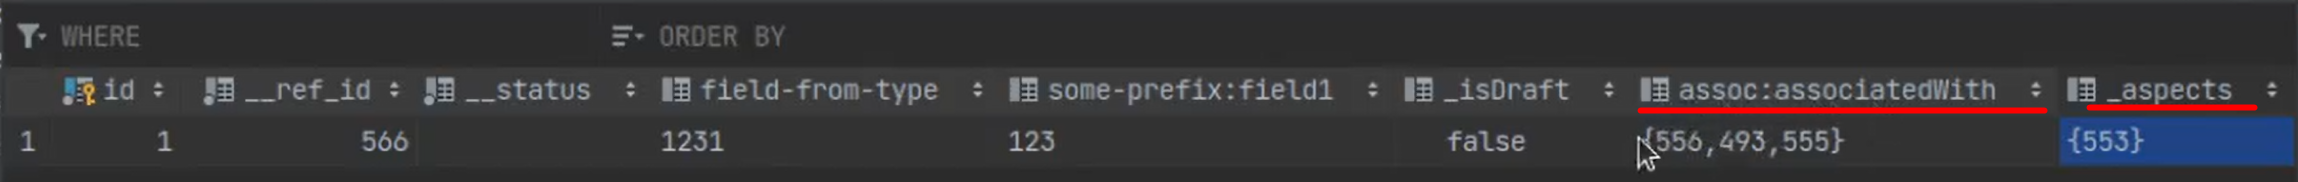
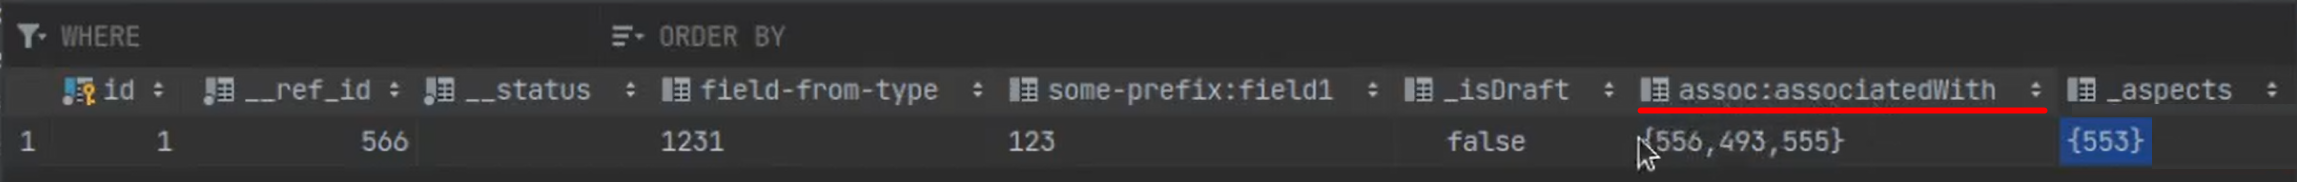
DMN_role_ECOSCOM-5137, aspects

diff --git a/docs/case_sample/equipment_request.rst b/docs/case_sample/equipment_request.rst
@@ -31,6 +31,8 @@
 Тип данных
 ----------
 
+.. _data_type_sample:
+
 **Тип данных** - основной источник метаданных работы с объектом.
 
 Для создания типа данных перейдите в журнал **«Типы данных» (Раздел администратора - Модель - Типы данных)**:
@@ -244,6 +246,8 @@
 Журнал
 -------
 
+.. _journal_to_menu:
+
 Для просмотра журнала необходимо его добавить в левое меню:
 
 1.	Перейдите в настройку меню, нажав на шестеренку справа сверху, далее выберите **«Настроить меню»**:
@@ -299,6 +303,8 @@
 
 Бизнес-процесс
 ----------------
+
+.. _bp_sample:
 
 Перейдите в левом меню в пункт **«Редактор бизнес-процессов»**:
 
@@ -529,6 +535,8 @@
        :width: 300
        :align: center
 
+.. _approve_form_bpmn:
+
 К задаче необходимо создать форму. Формы для задач обычно состоят из комментариев и кнопок, которые обозначают результат выполнения задачи.
 
 В данном случае не нужен комментарий, на текущем этапе достаточно одной кнопки, которая будет отвечать за исход задачи «На согласование». 
@@ -634,7 +642,7 @@
        :width: 500
        :align: center
 
-7. После Gateway необходимо поставить 2 компонента смены статуса на «Согласовано»/ «Отказано». Для этого повторяем действия первой смены статуса (пункт 2):
+7. После **Gateway** необходимо поставить 2 компонента смены статуса на **«Согласовано»/ «Отказано»**. Для этого повторяем действия первой смены статуса (пункт 2):
 
   -	У компонента **Gateway** нажмите в контекстном меню на иконку **Set Status**
 

diff --git a/docs/settings_kb/processes/ecos_dmn/editor/components/ecos_dmn_components_decision.rst b/docs/settings_kb/processes/ecos_dmn/editor/components/ecos_dmn_components_decision.rst
@@ -346,3 +346,37 @@
        :width: 500
        :align: center
 
+Реализация DMN для динамической роли
+-------------------------------------
+
+.. _dynamic_role_dmn:
+
+Динамическая роль назначается в :ref:`типе данных<data_types_main>` на вкладке :ref:`Роли<roles_statuses>` и устанавливает гибкую логику, по которой будет произведено вычисление состава пользователей роли. 
+
+Входными данными для вычисления DMN является заполненная **Модель** на основе рекорда. Рекорд - сущность с набором атрибутов и идентификатором записи (RecordRef), см. :ref:`подробно о Records API<Records_API>`). 
+
+В модели могут быть использованы :ref:`системные атрибуты<system_attributes>`.
+
+По ключу модели будут доступны вычисленные данные рекорда в контексте DMN.  
+
+Модель заполняется в **Описании DMN**:
+
+ .. image:: _static/decision/dmn_role_1.png
+       :width: 700
+       :align: center
+
+Решение DMN должно вернуть **String** с именами реципиентов. Если в одной строке DMN необходимо перечислить несколько реципиентов, то их можно разделить запятой:
+
+ .. image:: _static/decision/dmn_role_2.png
+       :width: 600
+       :align: center
+
+- **Hit policy** указывается на ваше усмотрение, в зависимости от необходимого результата.
+
+- Конечный **Output variable name** значения не имеет, можно оставить пустым. Главное указать тип **String**
+
+    .. image:: _static/decision/dmn_role_3.png
+       :width: 500
+       :align: center
+
+- При вычислении всегда используется последняя опубликованная версия DMN

diff --git a/docs/introduction/delegation.rst b/docs/introduction/delegation.rst
@@ -7,7 +7,7 @@
 
 Таких делегатов может быть один или несколько, при этом у каждого из них появляется доступ ко всем задачам доверителя (но не к тем документам, которые не взяты делегатом в работу, что означает, что они будут иметь доступ к тем задачам, где пользователь назначен единственным исполнителем, например, Юристом по договору, но не будут иметь доступ к нераспределённым задачам юридического отдела).
 
-Пользователь любой роли имеет возможность активировать функцию отсутствия в офисе. 
+Пользователь любой роли имеет возможность активировать функцию отсутствия в офисе и включить делегирование.
 
 .. note::
 
@@ -129,8 +129,8 @@
 
 Далее порядок действий аналогичен и описан в :ref:`Настройках делегирования<delegation_settings>`.
 
-Подробное описание механизма делегирования
--------------------------------------------
+Описание механизма делегирования
+---------------------------------
 
 Всегда
 ~~~~~~~

diff --git a/docs/settings_kb/Aspects.rst b/docs/settings_kb/Aspects.rst
@@ -98,6 +98,12 @@
         - функионал, позволяющий установить выражение-зависимость, позволяющий гибко создавать производные атрибуты :ref:`См. подробно<attribute_rights>`
         - настройка конфигурации в зависимости от типа и сложности вычисления атрибута
 
+В поле ``_aspects`` как и при добавлении любого другого аспекта вносится информация об аспекте.
+
+ .. image:: _static/aspects/aspects_4.png
+       :width: 600
+       :align: center
+
 .. note::
 
   Каждый аспект может быть добавлен как явно (во вкладке Аспекты), так и автоматически (см. ниже **Учет времени**)

diff --git a/docs/settings_kb/processes/ecos_bpmn/editor/components/ecos_bpmn_components_script_task.rst b/docs/settings_kb/processes/ecos_bpmn/editor/components/ecos_bpmn_components_script_task.rst
@@ -223,7 +223,7 @@ Tasks
     - ``completeActiveTasks(execution: DelegateExecution)`` - завершает все активные задачи по инстансу процесса из [DelegateExecution.getProcessInstanceId]. Задачи завершаются с результатом *defaultDone: Выполнено*.
 
 
-Temaplated content
+Tempalated content
 ~~~~~~~~~~~~~~~~~~
 
 ``templatedContent`` - сервис для работы с шаблонизированным контентом.
